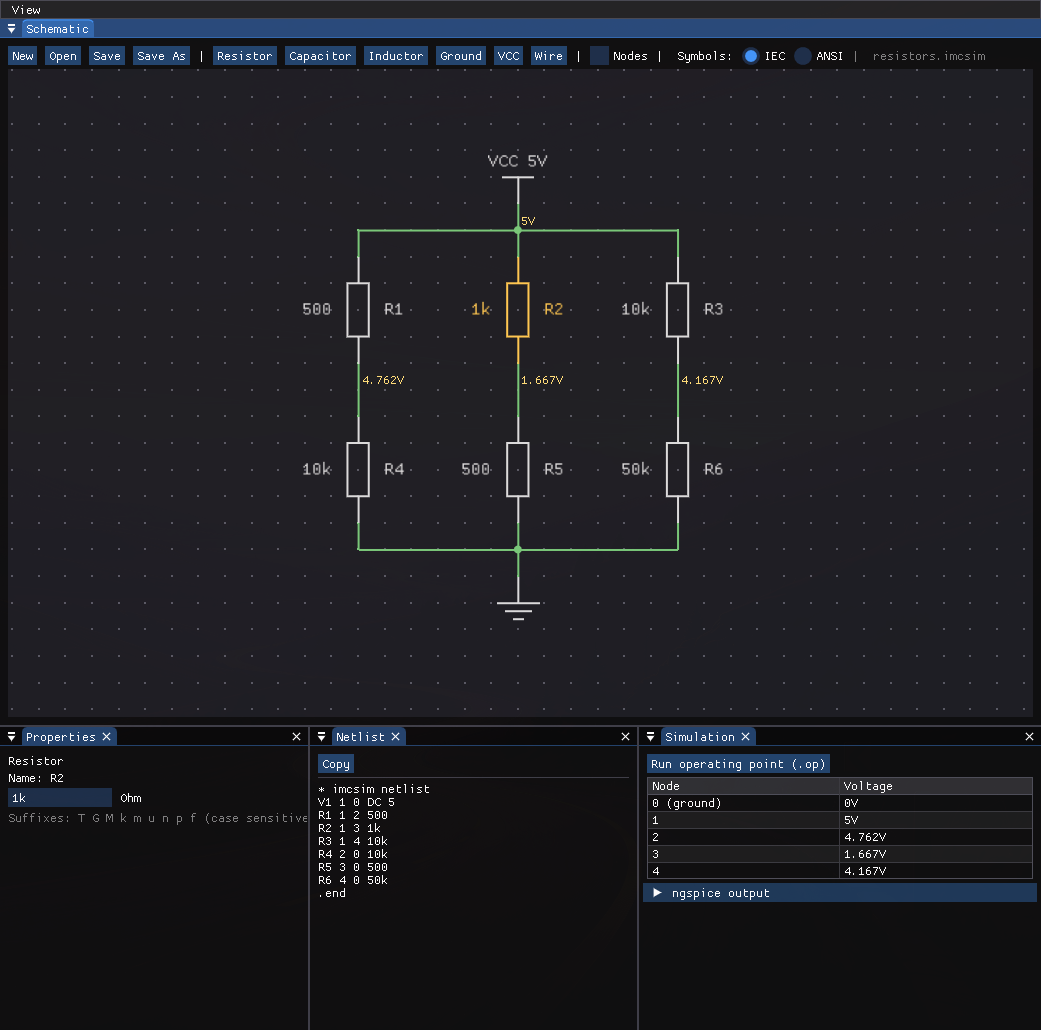
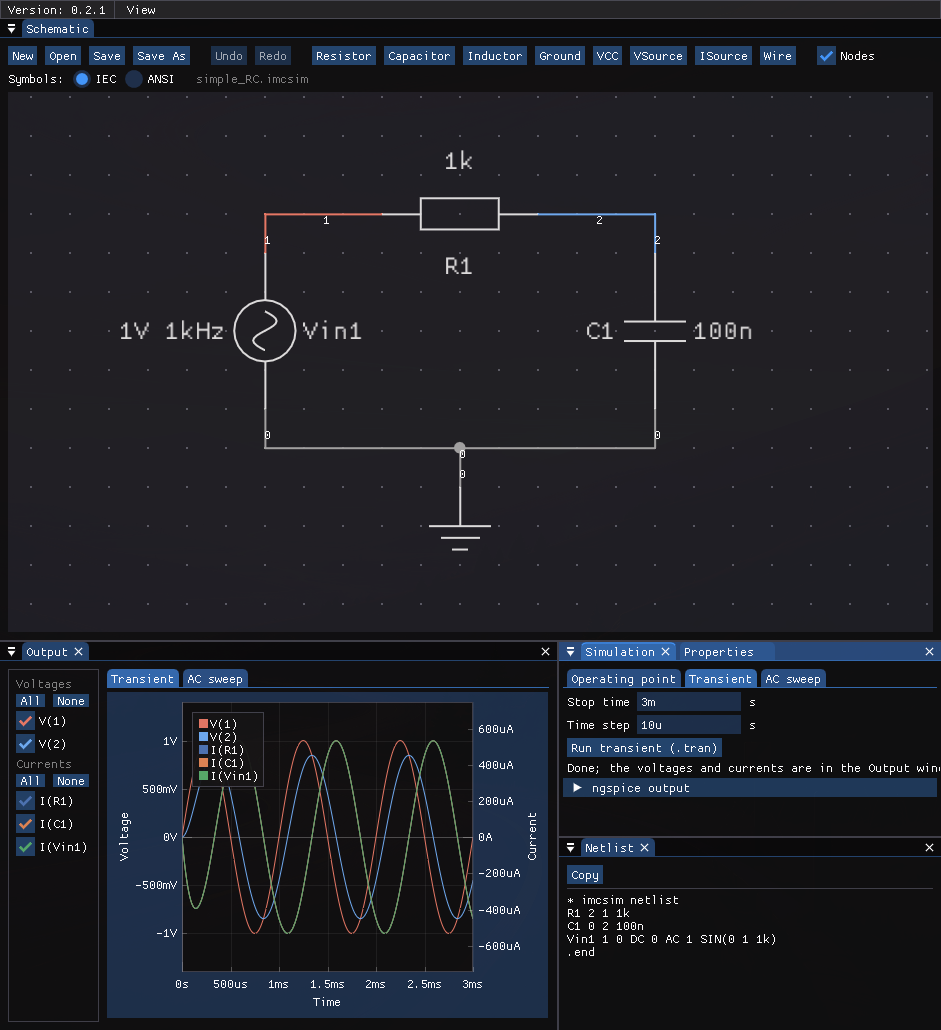
Fix bugs, update README and bump to 0.2.1

diff --git a/app-gui/windows/editor_window.cpp b/app-gui/windows/editor_window.cpp
@@ -86,6 +86,43 @@ void DrawGrid(ImDrawList *draw_list, const ViewTransform &view, const ImVec2 ori
     }
 }
 
+/**
+ * @class   ToolbarRow
+ * @brief   Lays toolbar items out left to right, moving the next item to a new line when it does not fit.
+ * @details Call Place() with the width of each item right before drawing it. A gap separates groups of items
+ *          and disappears when the group starts a new line.
+ */
+class ToolbarRow {
+public:
+    ToolbarRow() : m_RightEdge(ImGui::GetCursorScreenPos().x + ImGui::GetContentRegionAvail().x) {}
+
+    void Place(const float width, const float gap = 0.0f) {
+        if (std::exchange(m_First, false)) {
+            return;
+        }
+        const float spacing = ImGui::GetStyle().ItemSpacing.x + gap;
+        if (ImGui::GetItemRectMax().x + spacing + width <= m_RightEdge) {
+            ImGui::SameLine(0.0f, spacing);
+        }
+    }
+
+    // Widths of the kinds of items the toolbar has, as ImGui draws them
+    static float ButtonWidth(const char *label) {
+        return ImGui::CalcTextSize(label).x + ImGui::GetStyle().FramePadding.x * 2.0f;
+    }
+    static float CheckWidth(const char *label) {
+        return ImGui::GetFrameHeight() + ImGui::GetStyle().ItemInnerSpacing.x + ImGui::CalcTextSize(label).x;
+    }
+    static float TextWidth(const char *text) { return ImGui::CalcTextSize(text).x; }
+
+    // Space between groups, in font sizes
+    static float GroupGap() { return ImGui::GetFontSize(); }
+
+private:
+    float m_RightEdge;
+    bool m_First = true;
+};
+
 } // namespace
 
 /**
@@ -158,38 +195,78 @@ void EditorWindow::Draw() {
     DrawFilePopups();
 }
 
+// Groups of buttons wrap onto new lines when the window is narrow, instead of being cut off
 void EditorWindow::DrawToolbar() {
-    DrawFileButtons();
-    ImGui::SameLine();
-    ImGui::TextUnformatted("|");
-    ImGui::SameLine();
+    ToolbarRow row;
+    const float gap = ToolbarRow::GroupGap();
+
+    // File
+    row.Place(ToolbarRow::ButtonWidth("New"));
+    if (ImGui::Button("New")) {
+        RequestNew();
+    }
+    row.Place(ToolbarRow::ButtonWidth("Open"));
+    if (ImGui::Button("Open")) {
+        RequestOpen();
+    }
+    row.Place(ToolbarRow::ButtonWidth("Save"));
+    if (ImGui::Button("Save")) {
+        Save();
+    }
+    row.Place(ToolbarRow::ButtonWidth("Save As"));
+    if (ImGui::Button("Save As")) {
+        ShowFileDialog(FileAction::Save);
+    }
+
+    // History
+    row.Place(ToolbarRow::ButtonWidth("Undo"), gap);
+    ImGui::BeginDisabled(!m_Schematic.CanUndo());
+    if (ImGui::Button("Undo")) {
+        Undo();
+    }
+    ImGui::EndDisabled();
+    row.Place(ToolbarRow::ButtonWidth("Redo"));
+    ImGui::BeginDisabled(!m_Schematic.CanRedo());
+    if (ImGui::Button("Redo")) {
+        Redo();
+    }
+    ImGui::EndDisabled();
+
+    // Components and wires
+    float component_gap = gap;
     for (const auto &[label, type] : ToolbarComponents) {
+        row.Place(ToolbarRow::ButtonWidth(label), std::exchange(component_gap, 0.0f));
         if (ImGui::Button(label)) {
             StartPlacing(type);
         }
-        ImGui::SameLine();
     }
+    row.Place(ToolbarRow::ButtonWidth("Wire"));
     if (ImGui::Button("Wire")) {
         StartDrawingWires();
     }
-    ImGui::SameLine();
-    ImGui::TextUnformatted("|");
-    ImGui::SameLine();
+
+    // View
+    row.Place(ToolbarRow::CheckWidth("Nodes"), gap);
     ImGui::Checkbox("Nodes", &m_ShowNodes);
-    ImGui::SameLine();
-    ImGui::TextUnformatted("|  Symbols:");
-    ImGui::SameLine();
+    row.Place(ToolbarRow::TextWidth("Symbols:"), gap);
+    ImGui::AlignTextToFramePadding();
+    ImGui::TextUnformatted("Symbols:");
+    row.Place(ToolbarRow::CheckWidth("IEC"));
     if (ImGui::RadioButton("IEC", m_SymbolStyle == SymbolStyle::IEC)) {
         m_SymbolStyle = SymbolStyle::IEC;
     }
-    ImGui::SameLine();
+    row.Place(ToolbarRow::CheckWidth("ANSI"));
     if (ImGui::RadioButton("ANSI", m_SymbolStyle == SymbolStyle::ANSI)) {
         m_SymbolStyle = SymbolStyle::ANSI;
     }
-    ImGui::SameLine();
+
+    // Document
     const auto &file_path = m_Schematic.GetFilePath();
-    const std::string file_name = file_path ? file_path->filename().string() : "Untitled";
-    ImGui::TextDisabled("|  %s%s", file_name.c_str(), m_Schematic.IsModified() ? " *" : "");
+    const std::string title = std::format("{}{}", file_path ? file_path->filename().string() : "Untitled",
+                                          m_Schematic.IsModified() ? " *" : "");
+    row.Place(ToolbarRow::TextWidth(title.c_str()), gap);
+    ImGui::AlignTextToFramePadding();
+    ImGui::TextDisabled("%s", title.c_str());
 }
 
 void EditorWindow::DrawWires(ImDrawList *draw_list, const ViewTransform &view) {
@@ -483,36 +560,6 @@ void EditorWindow::RotateSelectedElement() {
     }
     m_Schematic.SetWires(FollowTerminals(m_Schematic.GetWires(), old_terminals, element.GetTerminals()));
     m_Schematic.SimplifyAllWires();
-}
-
-void EditorWindow::DrawFileButtons() {
-    if (ImGui::Button("New")) {
-        RequestNew();
-    }
-    ImGui::SameLine();
-    if (ImGui::Button("Open")) {
-        RequestOpen();
-    }
-    ImGui::SameLine();
-    if (ImGui::Button("Save")) {
-        Save();
-    }
-    ImGui::SameLine();
-    if (ImGui::Button("Save As")) {
-        ShowFileDialog(FileAction::Save);
-    }
-    ImGui::SameLine();
-    ImGui::BeginDisabled(!m_Schematic.CanUndo());
-    if (ImGui::Button("Undo")) {
-        Undo();
-    }
-    ImGui::EndDisabled();
-    ImGui::SameLine();
-    ImGui::BeginDisabled(!m_Schematic.CanRedo());
-    if (ImGui::Button("Redo")) {
-        Redo();
-    }
-    ImGui::EndDisabled();
 }
 
 // Global routing makes the shortcuts work while another editor window, such as Properties, has focus

diff --git a/app-gui/windows/output_window.cpp b/app-gui/windows/output_window.cpp
@@ -94,6 +94,12 @@ template <typename Key> void DrawAllNoneButtons(const char *id, std::set<Key> &h
     ImGui::PopID();
 }
 
+// Returns whether the current axis has just appeared: it did not exist when the axes last fitted, so its range
+// is meaningless until it is fitted too
+bool TakeCurrentAxisAppeared(bool &showed_currents, const bool show_currents) {
+    return show_currents && !std::exchange(showed_currents, show_currents);
+}
+
 // Returns whether the axes must fit, which is the case once for every new result
 bool TakeFit(std::optional<std::size_t> &fitted_version, const std::size_t version) {
     return std::exchange(fitted_version, version) != version;
@@ -199,8 +205,12 @@ void OutputWindow::DrawTraceList(const std::size_t node_count, const std::vector
 }
 
 void OutputWindow::DrawTransient(const Core::Transient &transient) {
+    const bool show_currents = HasShownCurrent(transient.Currents, m_HiddenCurrents);
+    const bool current_axis_appeared = TakeCurrentAxisAppeared(m_TransientShowedCurrents, show_currents);
     if (TakeFit(m_FittedTransient, m_Schematic.GetTransientVersion())) {
         ImPlot::SetNextAxesToFit();
+    } else if (current_axis_appeared) {
+        ImPlot::SetNextAxisToFit(ImAxis_Y2);
     }
     if (!ImPlot::BeginPlot("##transient", ImVec2(-1.0f, PlotHeight(1)))) {
         return;
@@ -208,7 +218,6 @@ void OutputWindow::DrawTransient(const Core::Transient &transient) {
     ImPlot::SetupAxes("Time", "Voltage");
     ImPlot::SetupAxisFormat(ImAxis_X1, FormatAxisValue, const_cast<char *>("s"));
     ImPlot::SetupAxisFormat(ImAxis_Y1, FormatAxisValue, const_cast<char *>("V"));
-    const bool show_currents = HasShownCurrent(transient.Currents, m_HiddenCurrents);
     if (show_currents) {
         ImPlot::SetupAxis(ImAxis_Y2, "Current", ImPlotAxisFlags_AuxDefault);
         ImPlot::SetupAxisFormat(ImAxis_Y2, FormatAxisValue, const_cast<char *>("A"));
@@ -225,9 +234,12 @@ void OutputWindow::DrawTransient(const Core::Transient &transient) {
 void OutputWindow::DrawACSweep(const Core::ACSweep &sweep) {
     const bool fit = TakeFit(m_FittedACSweep, m_Schematic.GetACSweepVersion());
     const bool show_currents = HasShownCurrent(sweep.CurrentMagnitudesDecibels, m_HiddenCurrents);
+    const bool current_axis_appeared = TakeCurrentAxisAppeared(m_ACSweepShowedCurrents, show_currents);
     const float height = PlotHeight(2);
     if (fit) {
         ImPlot::SetNextAxesToFit();
+    } else if (current_axis_appeared) {
+        ImPlot::SetNextAxisToFit(ImAxis_Y2);
     }
     if (ImPlot::BeginPlot("Magnitude##ac", ImVec2(-1.0f, height))) {
         ImPlot::SetupAxes("Frequency", "Voltage (dB)");
@@ -244,6 +256,8 @@ void OutputWindow::DrawACSweep(const Core::ACSweep &sweep) {
     }
     if (fit) {
         ImPlot::SetNextAxesToFit();
+    } else if (current_axis_appeared) {
+        ImPlot::SetNextAxisToFit(ImAxis_Y2);
     }
     if (ImPlot::BeginPlot("Phase##ac", ImVec2(-1.0f, height))) {
         ImPlot::SetupAxes("Frequency", "Phase (deg)");

diff --git a/app-gui/windows/output_window.h b/app-gui/windows/output_window.h
@@ -37,6 +37,9 @@ private:
     // Result versions the axes were last fitted to
     std::optional<std::size_t> m_FittedTransient;
     std::optional<std::size_t> m_FittedACSweep;
+    // Whether each analysis showed its current axis last frame; the axis is fitted when it appears again
+    bool m_TransientShowedCurrents = false;
+    bool m_ACSweepShowedCurrents = false;
     // Kept across runs, since small edits rarely renumber the nodes or rename the components
     std::set<std::size_t> m_HiddenNodes;
     std::set<std::string> m_HiddenCurrents;

diff --git a/app-gui/windows/properties_window.cpp b/app-gui/windows/properties_window.cpp
@@ -188,7 +188,6 @@ void PropertiesWindow::DrawPulse(Core::Source &source) {
     }
 
     ImGui::TextDisabled("%s", std::format("Repeats at {}Hz", Core::FormatValue(1.0 / pulse.Period)).c_str());
-    ImGui::TextDisabled("%s", std::format("Repeats at {}Hz", Core::FormatValue(1.0 / pulse.Period)).c_str());
     if (pulse.RiseTime + pulse.Width + pulse.FallTime > pulse.Period) {
         ImGui::TextColored(WarningTextColor, "Rise, width and fall add up to more than the period");
     }

diff --git a/app-gui/windows/editor_window.h b/app-gui/windows/editor_window.h
@@ -142,7 +142,6 @@ private:
     void RotateSelectedElement();
 
     // File and history commands
-    void DrawFileButtons();
     void HandleFileShortcuts();
     void Undo();
     void Redo();

diff --git a/README.md b/README.md
@@ -5,8 +5,18 @@
 Immediate Mode Circuit Simulator, built with Dear ImGui, SDL3 and Vulkan. Circuits are simulated with
 [ngspice](https://ngspice.sourceforge.io/).
 
-![imcsim showing three resistive dividers with their node voltages, the selected resistor's properties, the SPICE
-netlist and the operating point results](docs/screenshot.png)
+![imcsim showing an RC low-pass driven by a 1 kHz sine source, with its nodes colored in the schematic, the
+transient voltages and currents plotted in the Output window, and the simulation settings and SPICE
+netlist](docs/screenshot.png)
+
+## Features
+
+- Resistors, capacitors, inductors, ground, a VCC rail, and voltage and current sources (DC, sine or pulse)
+- Operating point, transient and AC sweep analyses, with node voltages and component currents
+- Plots of transients and Bode diagrams, with the nodes shown in the same colors as in the schematic
+- IEC or ANSI symbols, undo and redo, and schematics saved as JSON
+
+On Wayland, the windows cannot be dragged out of the main window. Run with `SDL_VIDEODRIVER=x11` to allow it.
 
 ## Requirements
 
@@ -18,7 +28,7 @@ netlist and the operating point results](docs/screenshot.png)
 - Vulkan headers and loader (the Vulkan SDK is not required)
 - ngspice built as a shared library (`libngspice` and its `sharedspice.h` header; tested with ngspice 47)
 - pkg-config, which CMake uses to find ngspice
-- Git, for the submodules in `vendor/`: Dear ImGui (`docking` branch), nlohmann/json and Catch2
+- Git, for the submodules in `vendor/`: Dear ImGui (`docking` branch), ImPlot, nlohmann/json and Catch2
 
 On Arch Linux:
 
